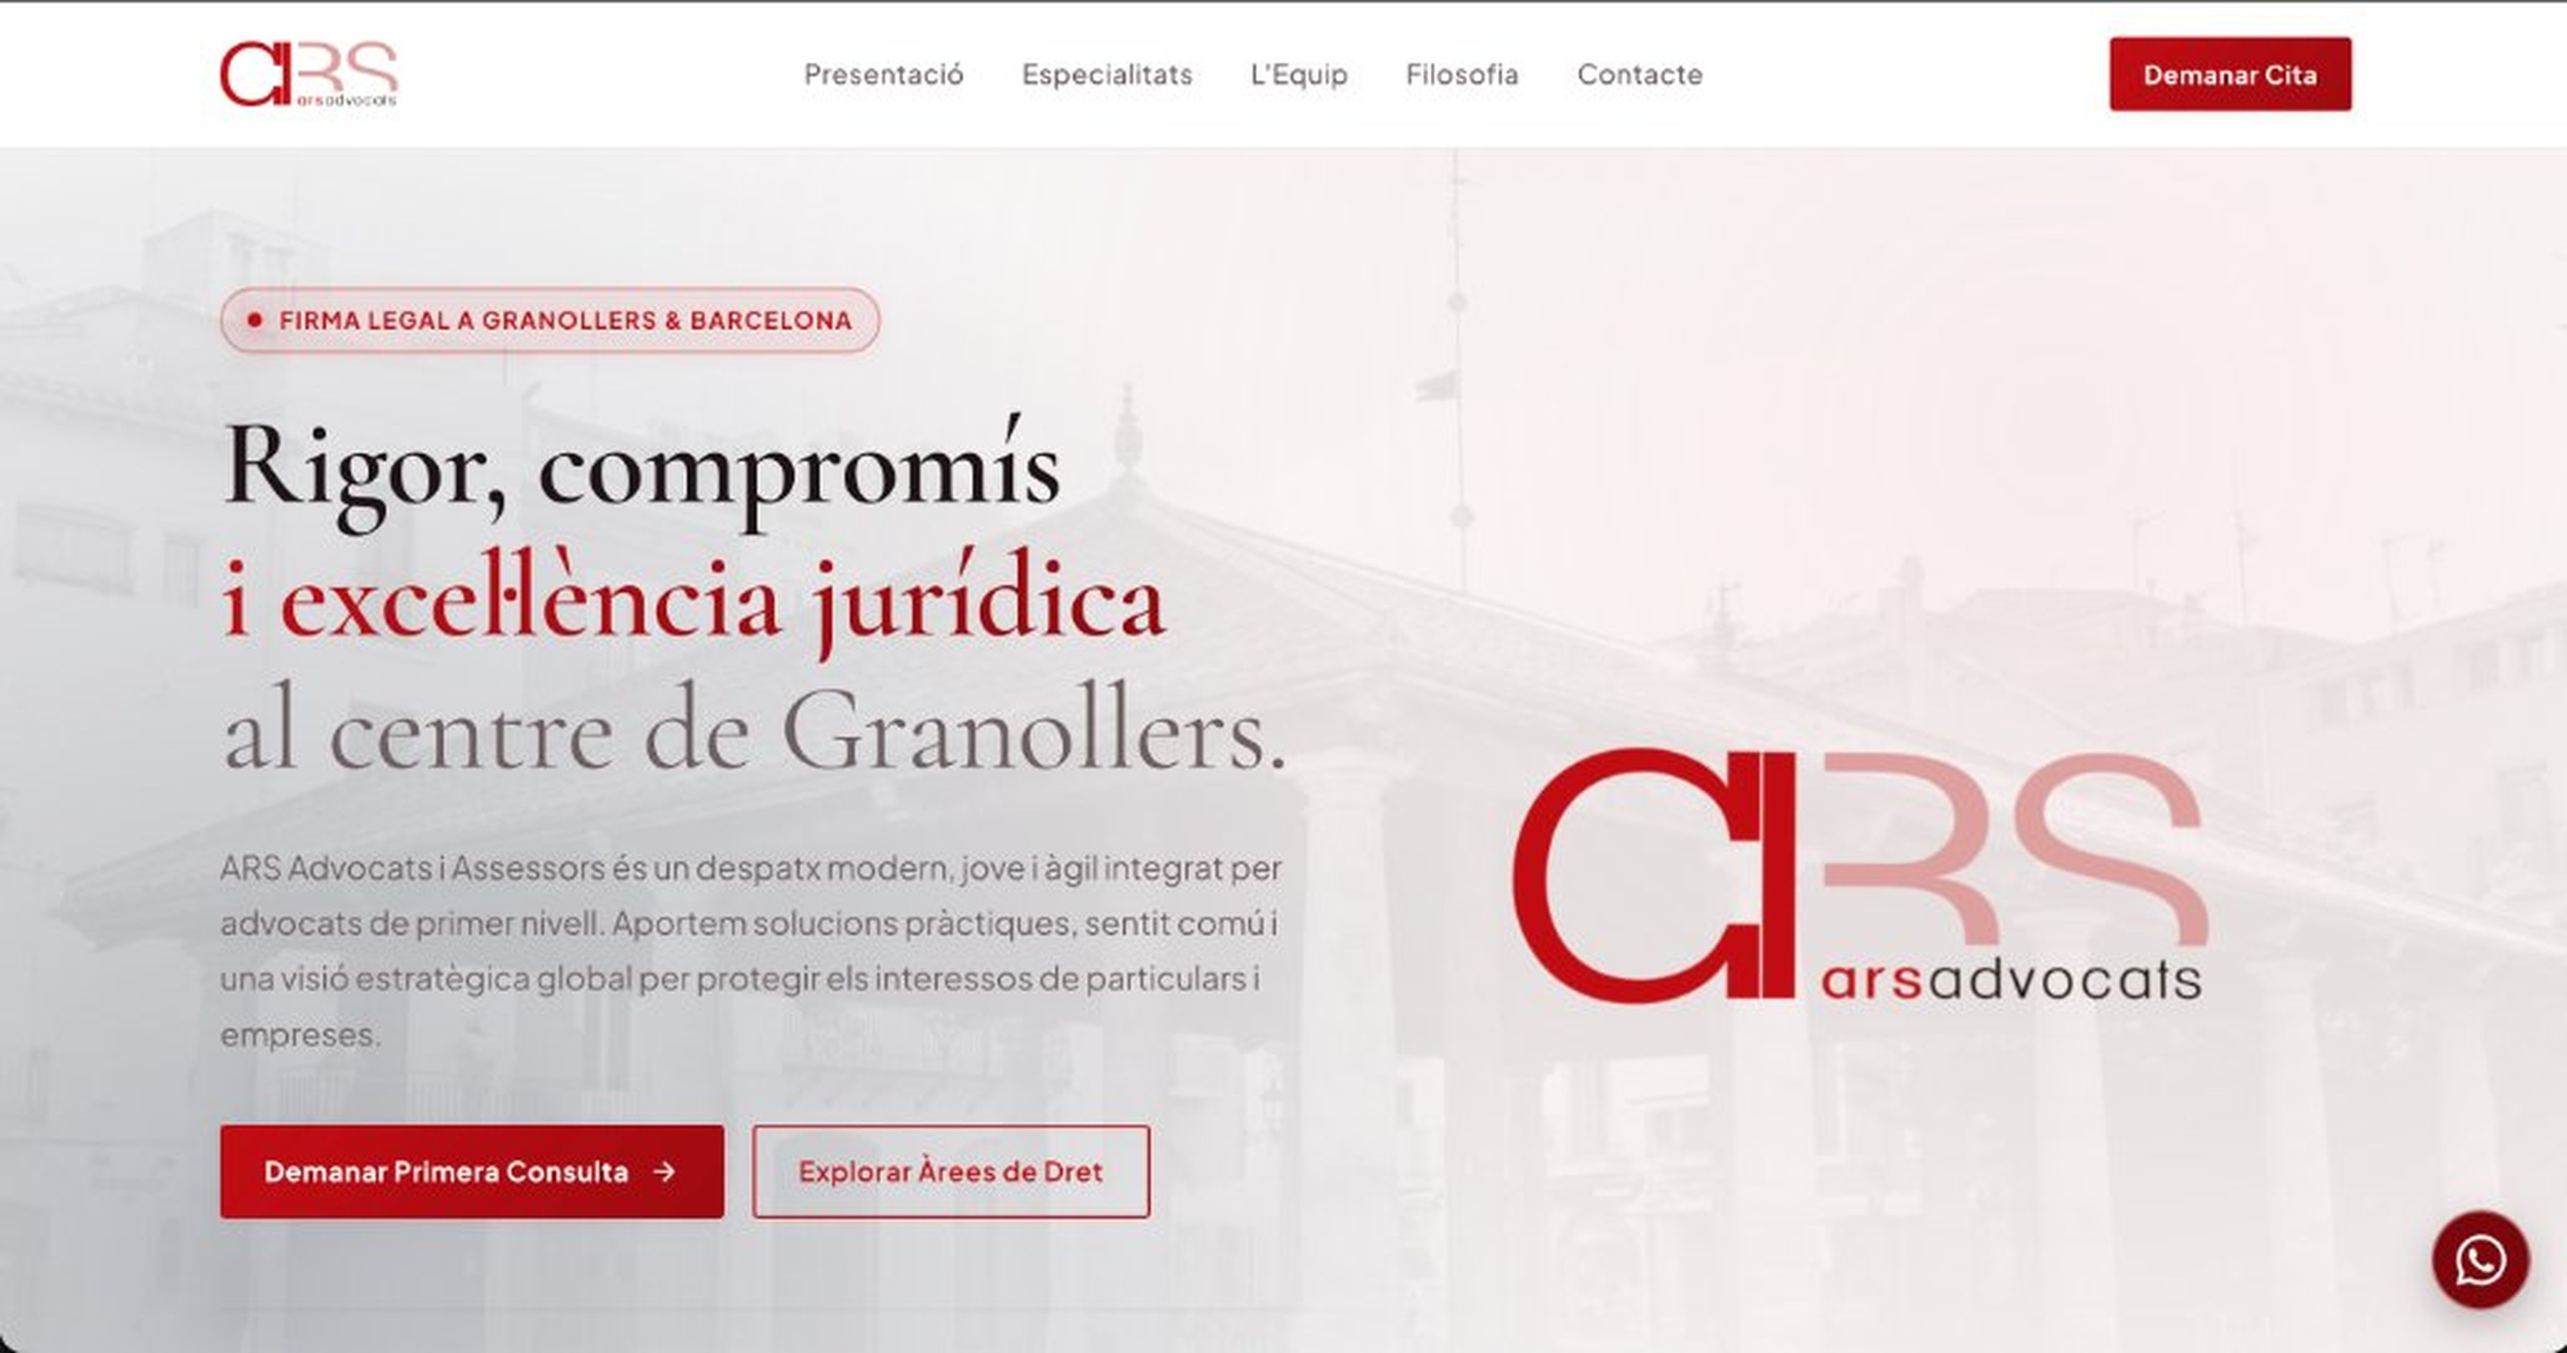
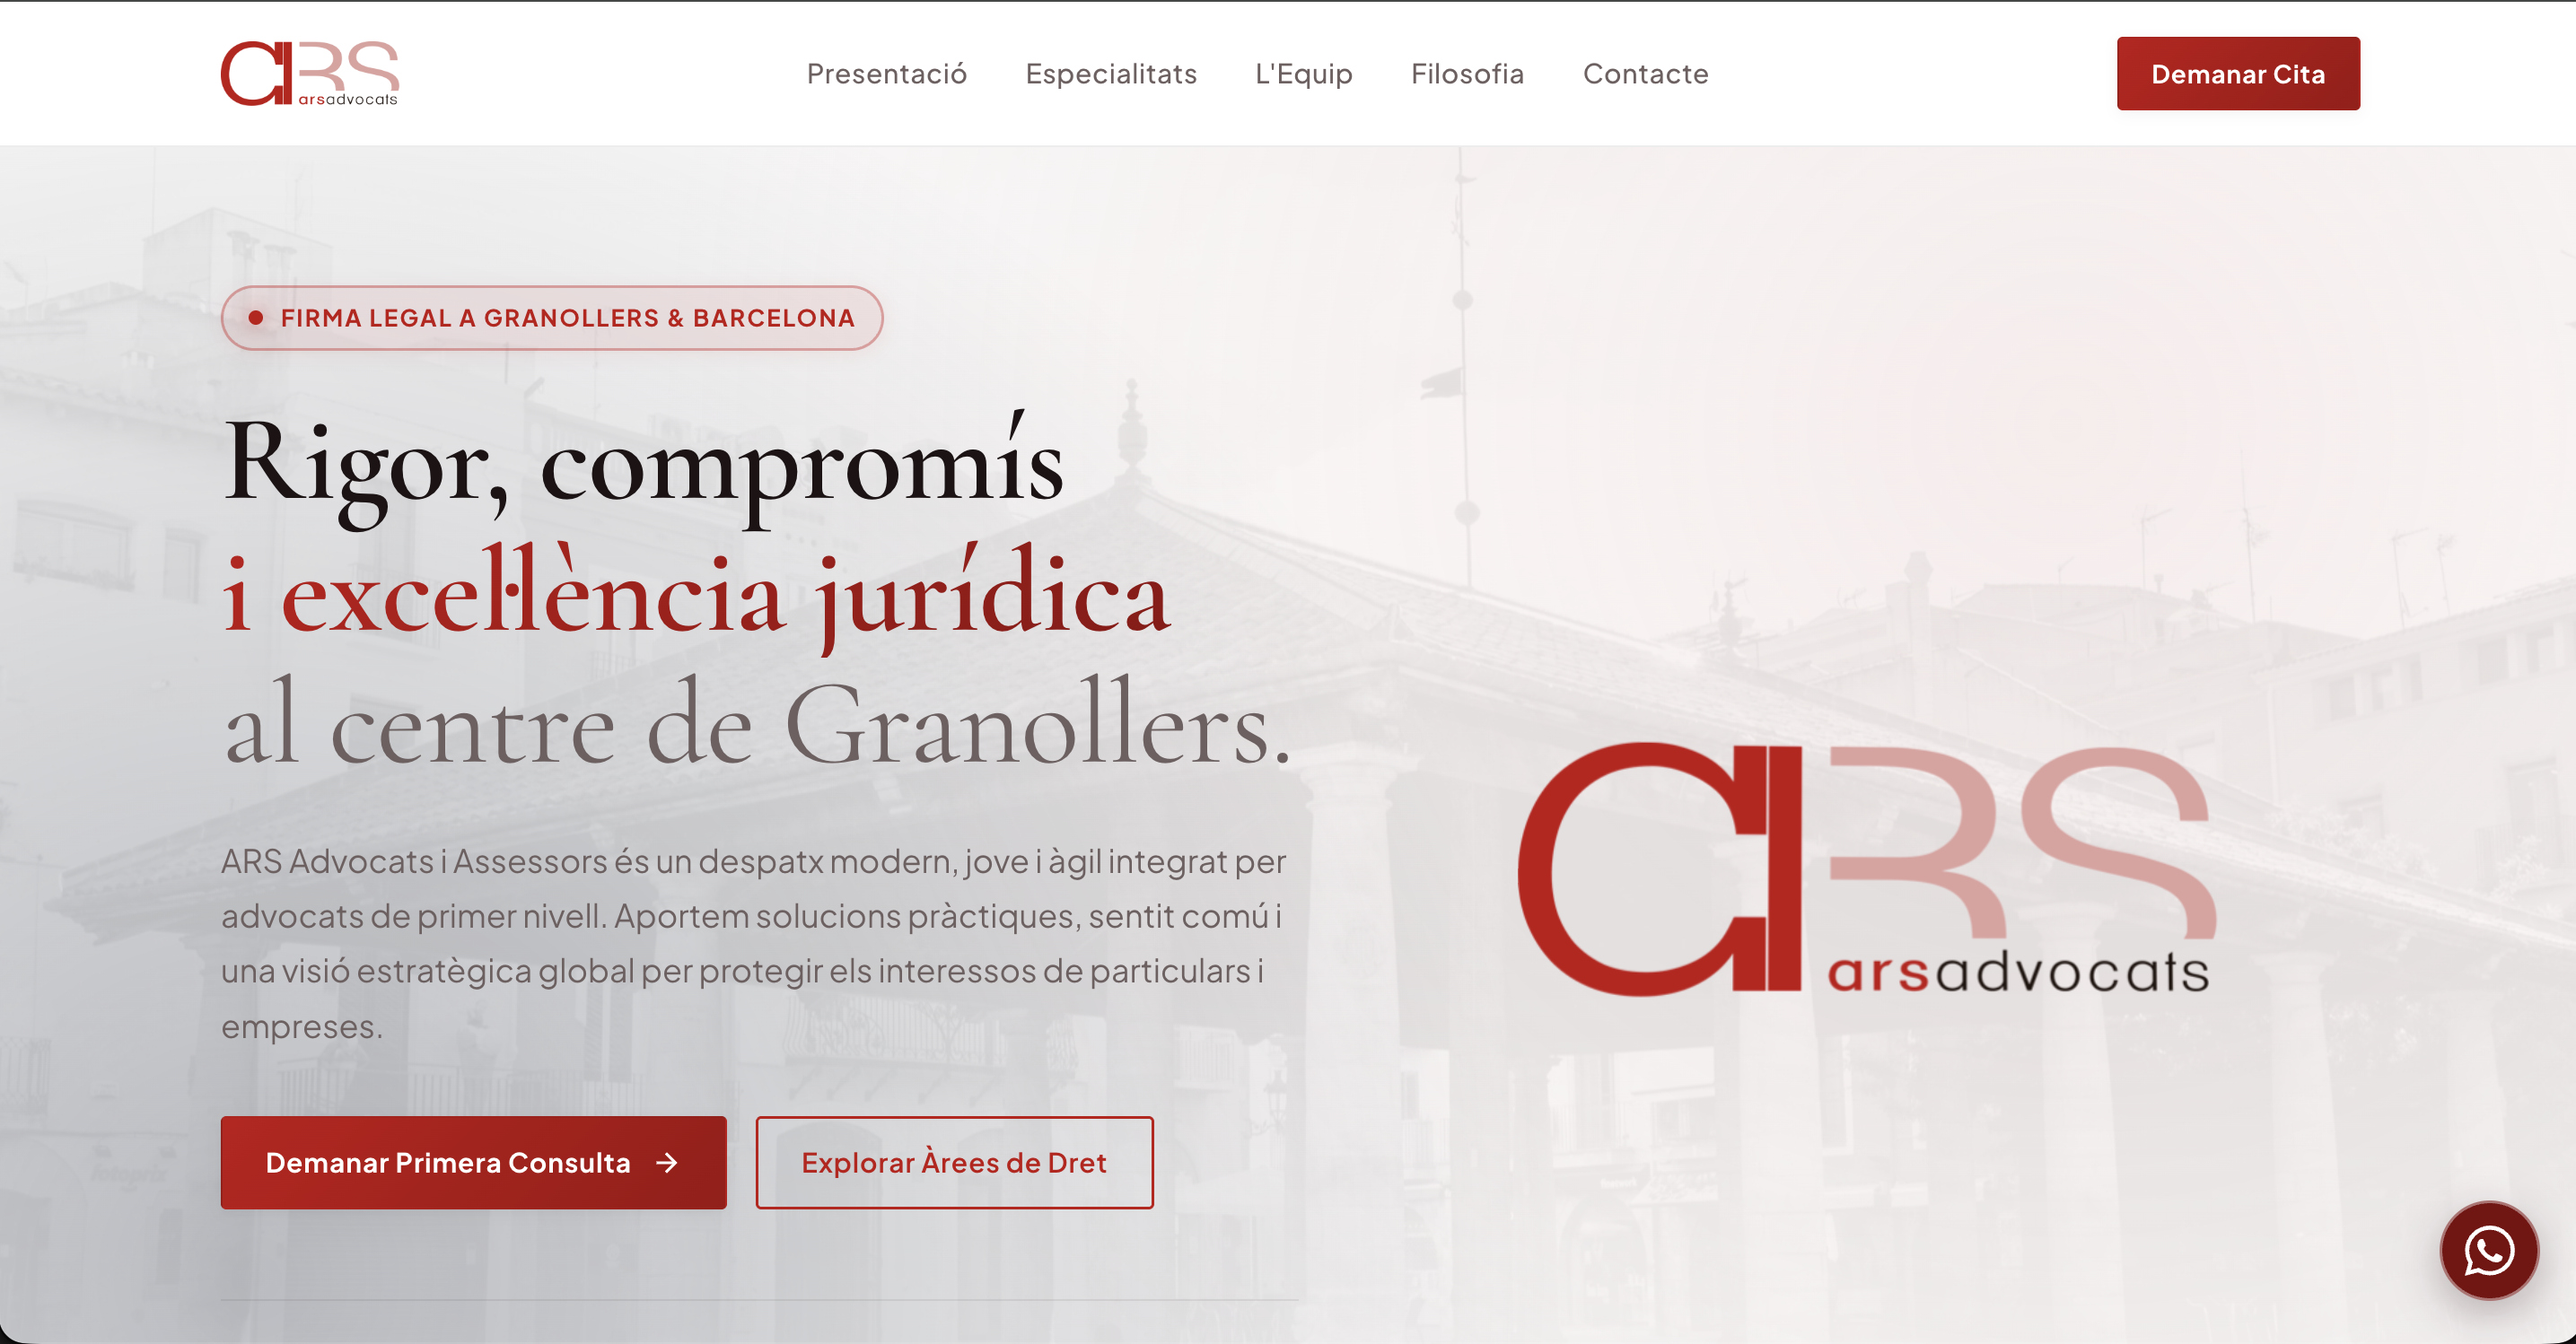
feat: preserve exact 1.916:1 native aspect ratio and lossless high-res quality for ARS Advocats cover

diff --git a/index.html b/index.html
@@ -390,12 +390,12 @@
                             <span class="mono-caption">FIRMA LEGAL · GRANOLLERS &amp; BARCELONA</span>
                         </div>
 
-                        <div class="work-piece__viewport" data-modal-target="modal-06" role="button" tabindex="0" aria-label="Abrir caso de estudio ARS Advocats">
+                        <div class="work-piece__viewport work-piece__viewport--wide" data-modal-target="modal-06" role="button" tabindex="0" aria-label="Abrir caso de estudio ARS Advocats">
                             <img src="images/portfolio/gallery/g-ars.jpg"
                                  alt="Rediseño web e identidad digital de ARS Advocats i Assessors"
-                                 width="2860" height="1508" loading="lazy"
+                                 width="2870" height="1498" loading="lazy"
                                  class="parallax-img"
-                                 data-img-parallax="0.14">
+                                 data-img-parallax="0.08">
                             <span class="work-piece__veil">
                                 <span class="work-piece__veil-label">Ver Ficha del Proyecto →</span>
                             </span>
@@ -950,7 +950,7 @@
             </div>
             <div class="case-dialog__grid">
                 <div class="case-dialog__media">
-                    <img src="images/portfolio/gallery/g-ars.jpg" alt="Diseño web y branding de ARS Advocats i Assessors" width="2860" height="1508" loading="lazy">
+                    <img src="images/portfolio/gallery/g-ars.jpg" alt="Diseño web y branding de ARS Advocats i Assessors" width="2870" height="1498" loading="lazy">
                 </div>
                 <div class="case-dialog__body">
                     <ul class="case-dialog__tags">

diff --git a/css/styles.css b/css/styles.css
@@ -797,6 +797,10 @@
         cursor: pointer;
     }
 
+    .work-piece__viewport--wide {
+        aspect-ratio: 1.916 / 1;
+    }
+
     .work-piece__viewport--portrait {
         aspect-ratio: 10 / 11;
     }
